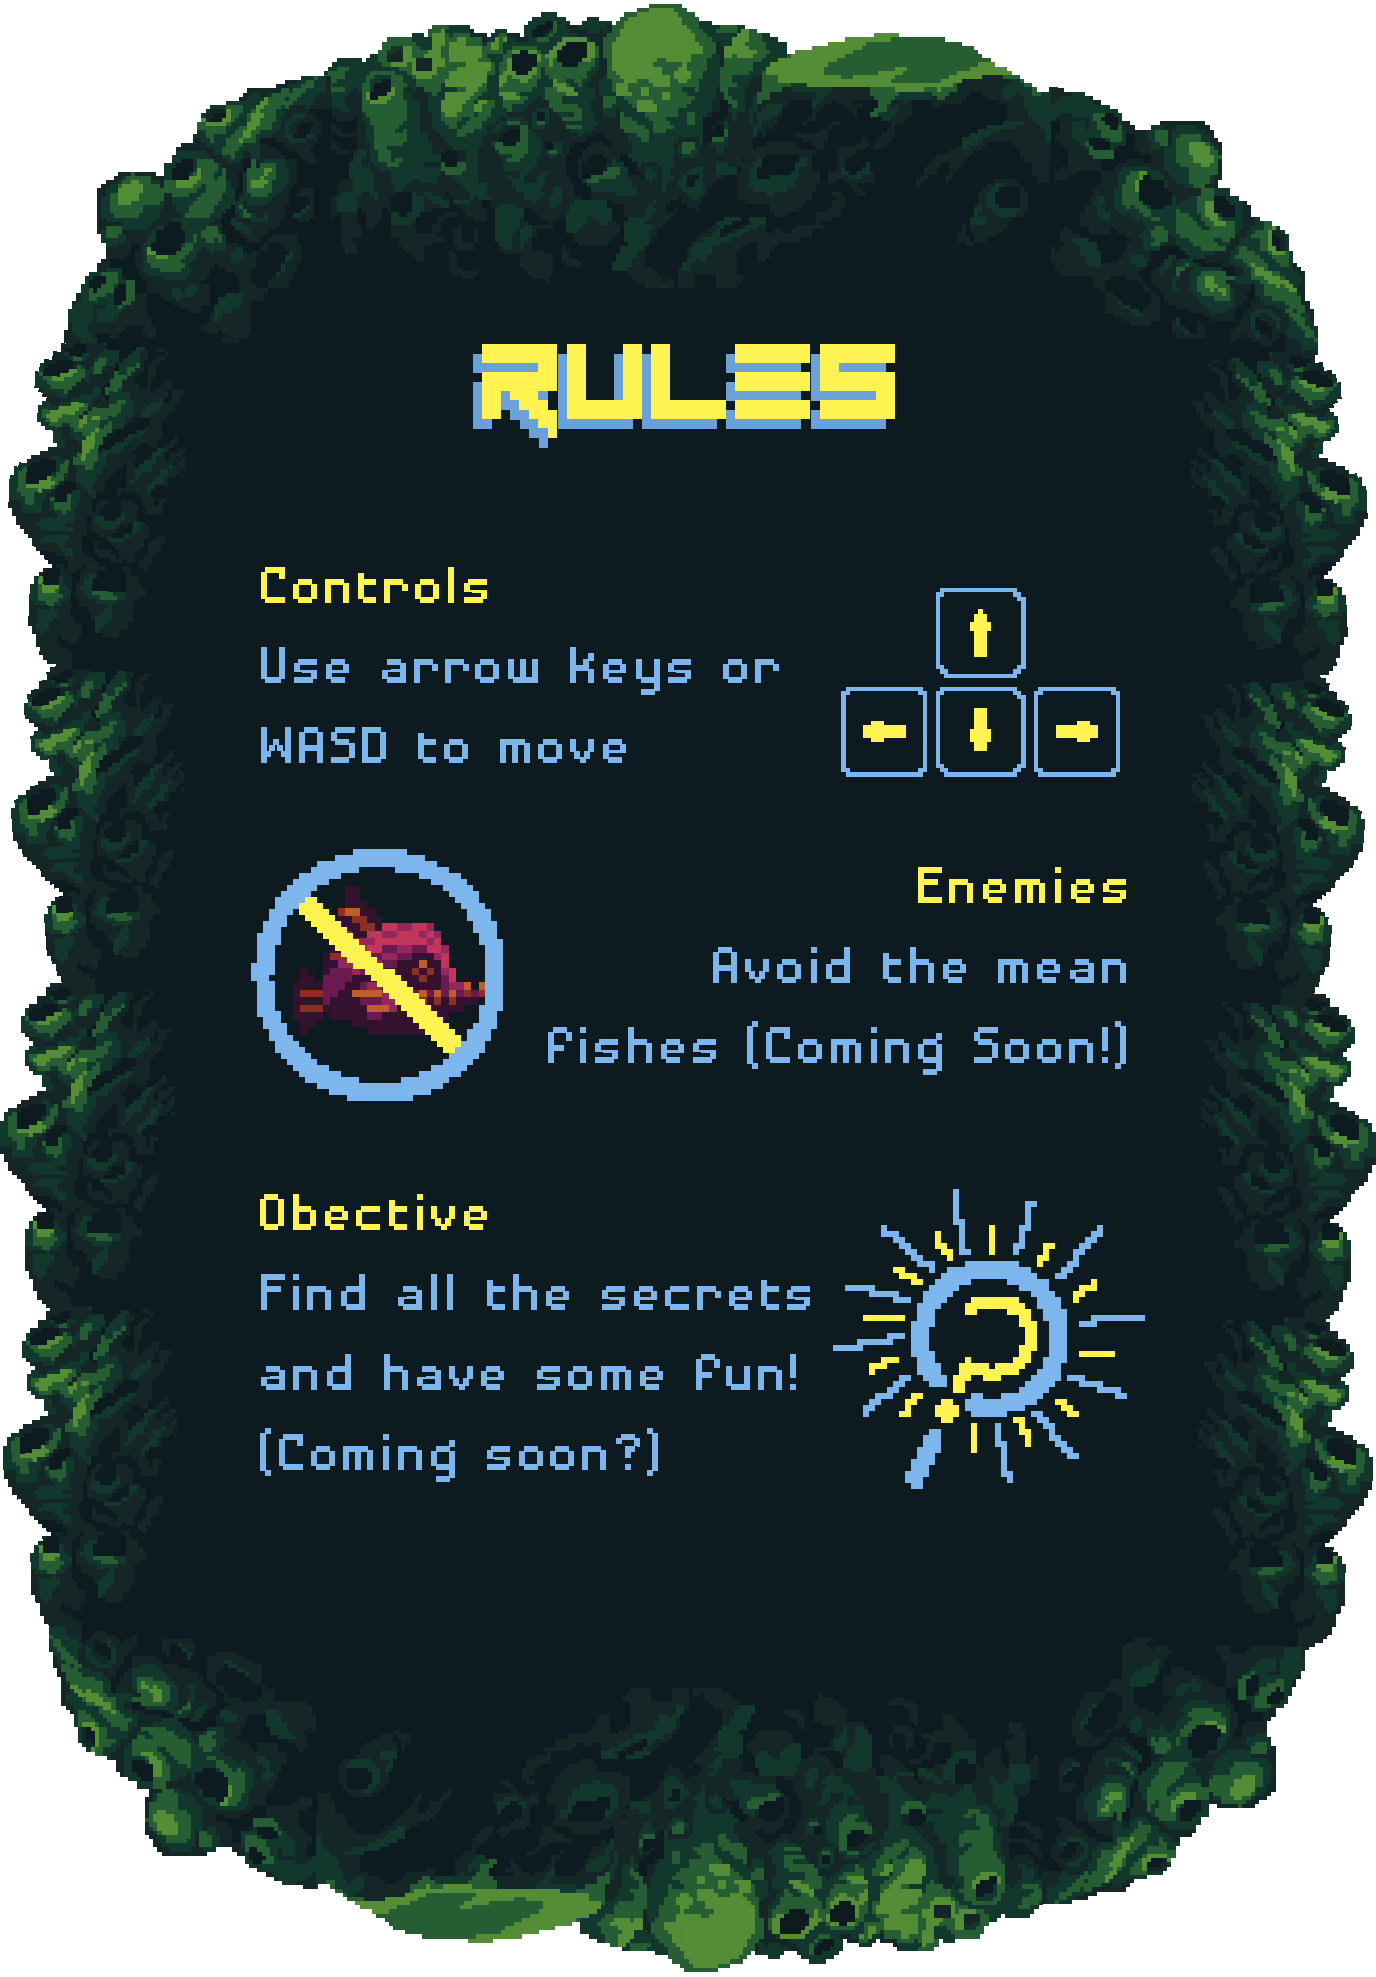
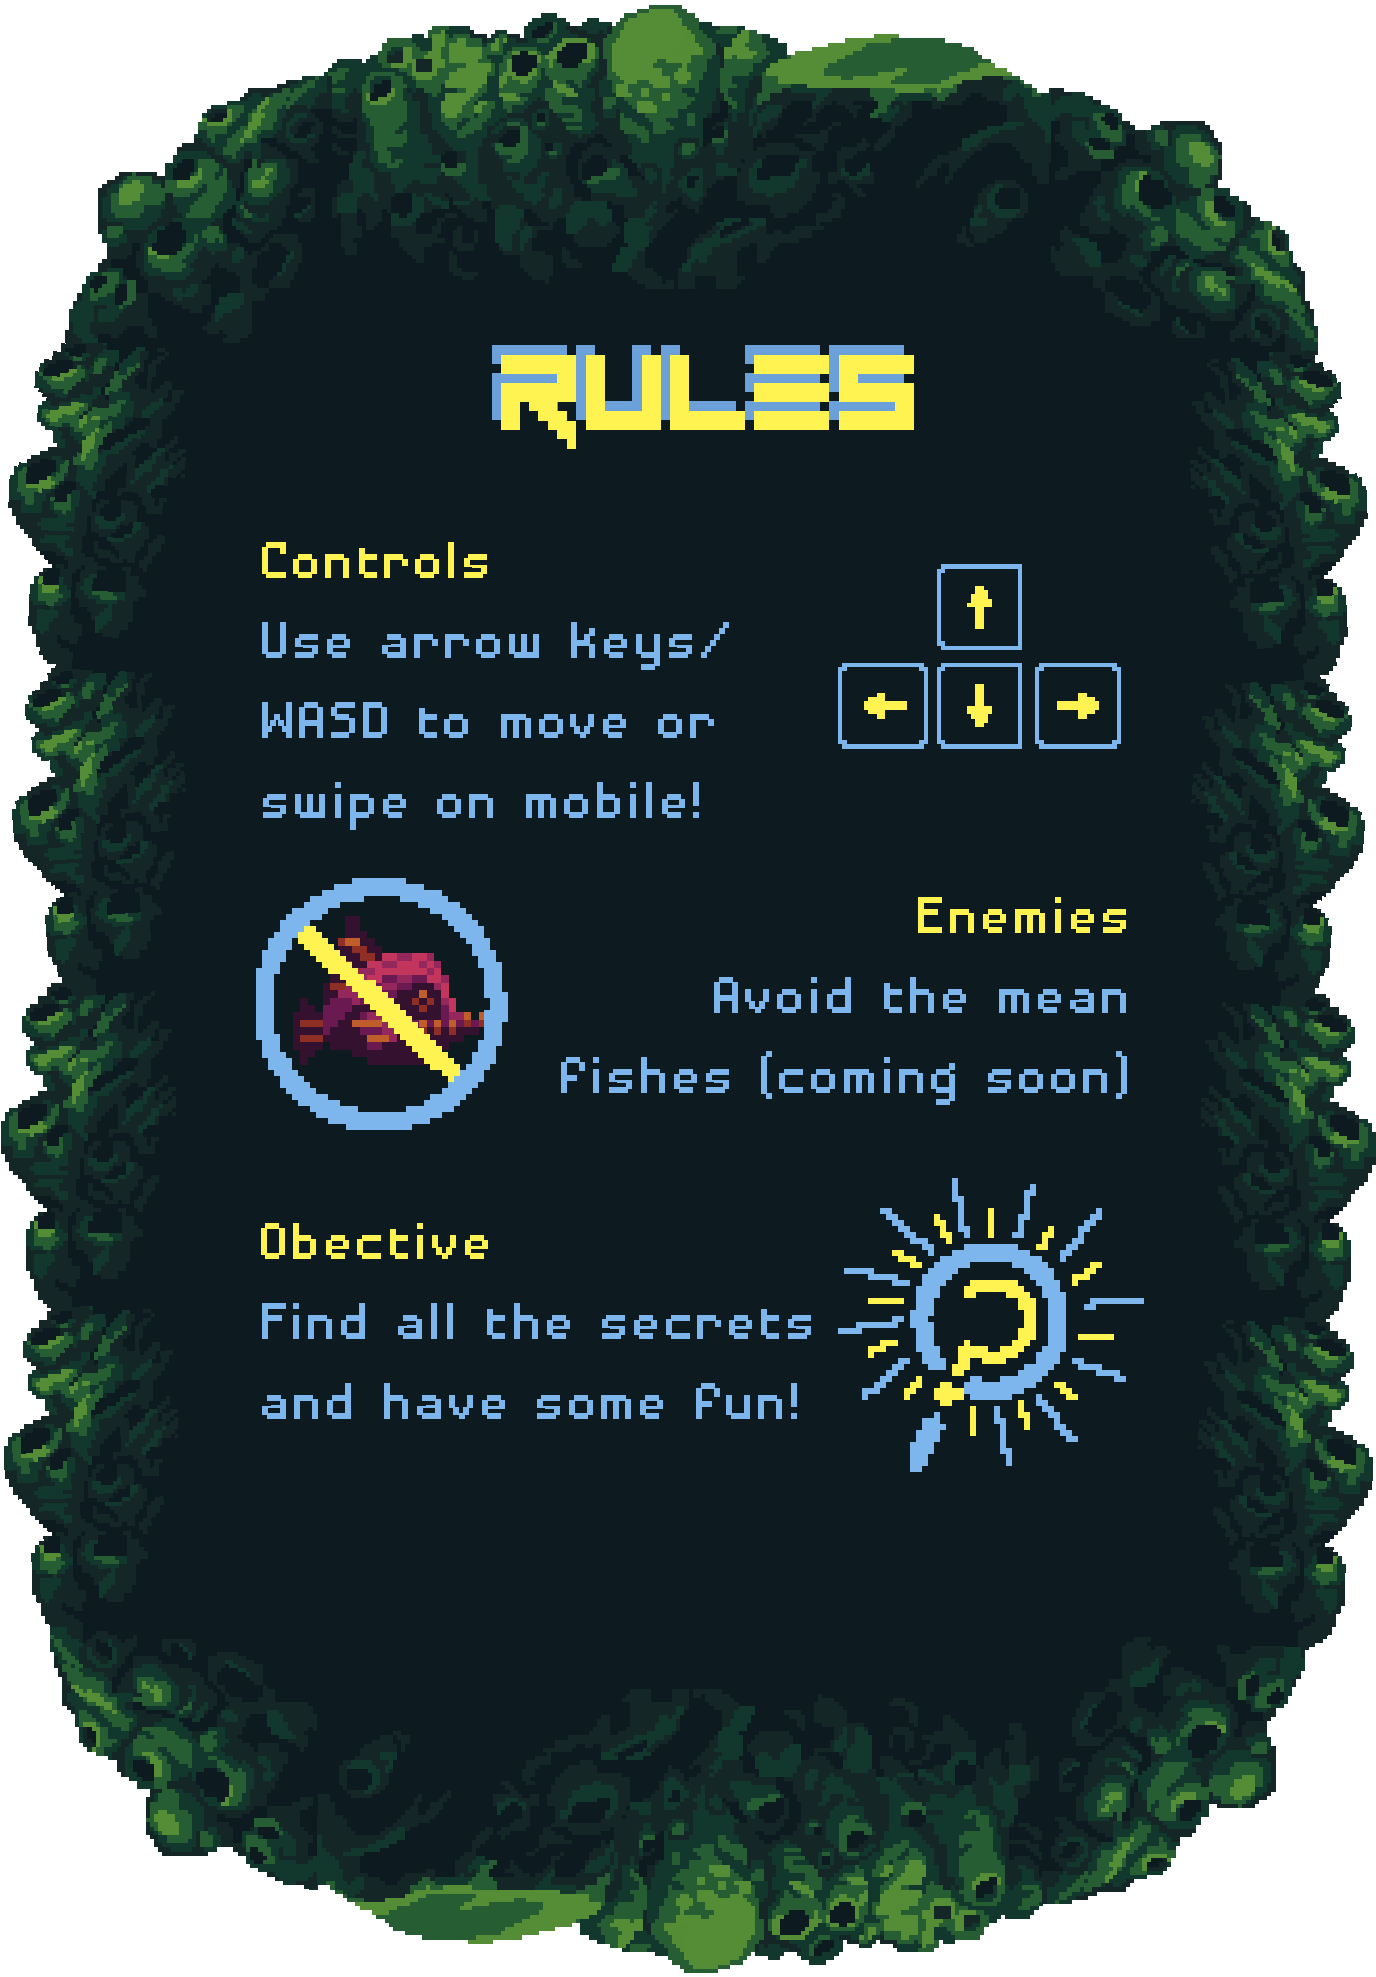
mobile swipe functionality

diff --git a/src/components/game/Game.js b/src/components/game/Game.js
@@ -9,7 +9,6 @@ export default function Game() {
       ctx = canvas.getContext('2d');
     let screenHeight = $(window).height();
     let screenWidth = $(window).width();
-    var lastDownTarget;
 
     let navigateOnce = true;
     let screenSizePadding = 4000;
@@ -90,53 +89,71 @@ export default function Game() {
     document.body.addEventListener('keyup', function (e) {
       keys[e.key] = false;
     });
-    document.body.addEventListener(
-      'mousedown',
-      function (e) {
-        var mousePos = getMousePos(canvas, e);
-        if (isInside(mousePos, rectRight)) {
-          lastDownTarget = e.target;
-          keys['ArrowRight'] = true;
-        }
-        if (isInside(mousePos, rectLeft)) {
-          lastDownTarget = e.target;
-          keys['ArrowLeft'] = true;
-        }
-        if (isInside(mousePos, rectUp)) {
-          lastDownTarget = e.target;
-          keys['ArrowUp'] = true;
-        }
-        if (isInside(mousePos, rectDown)) {
-          lastDownTarget = e.target;
-          keys['ArrowDown'] = true;
-        }
-      },
-      false
-    );
-    document.body.addEventListener(
-      'mouseup',
-      function (e) {
-        debugger;
-        var mousePos = getMousePos(canvas, e);
-        if (isInside(mousePos, rectRight)) {
-          lastDownTarget = e.target;
-          keys['ArrowRight'] = false;
-        }
-        if (isInside(mousePos, rectLeft)) {
-          lastDownTarget = e.target;
-          keys['ArrowLeft'] = false;
-        }
-        if (isInside(mousePos, rectUp)) {
-          lastDownTarget = e.target;
-          keys['ArrowUp'] = false;
-        }
-        if (isInside(mousePos, rectDown)) {
-          lastDownTarget = e.target;
-          keys['ArrowDown'] = false;
-        }
-      },
-      false
-    );
+    // document.body.addEventListener(
+    //   'touchstart',
+    //   function (e) {
+    //     var mousePos = getMousePos(canvas, e);
+    //     if (isInside(mousePos, rectRight)) {
+    //       keys['ArrowRight'] = true;
+    //     }
+    //     if (isInside(mousePos, rectLeft)) {
+    //       keys['ArrowLeft'] = true;
+    //     }
+    //     if (isInside(mousePos, rectUp)) {
+    //       keys['ArrowUp'] = true;
+    //     }
+    //     if (isInside(mousePos, rectDown)) {
+    //       keys['ArrowDown'] = true;
+    //     }
+    //   },
+    //   false
+    // );
+    // document.body.addEventListener(
+    //   'touchend',
+    //   function (e) {
+    //     var mousePos = getMousePos(canvas, e);
+    //     alert(mousePos);
+    //     if (isInside(mousePos, rectRight)) {
+    //       keys['ArrowRight'] = false;
+    //     }
+    //     if (isInside(mousePos, rectLeft)) {
+    //       keys['ArrowLeft'] = false;
+    //     }
+    //     if (isInside(mousePos, rectUp)) {
+    //       keys['ArrowUp'] = false;
+    //     }
+    //     if (isInside(mousePos, rectDown)) {
+    //       keys['ArrowDown'] = false;
+    //     }
+    //   },
+    //   false
+    // );
+    var touchStartPositionY;
+    var touchStartPositionX;
+    $(document).bind('touchstart', function (e) {
+      touchStartPositionY = e.originalEvent.touches[0].clientY;
+    });
+
+    $(document).bind('touchend', function (e) {
+      var touchEndPositionY = e.originalEvent.changedTouches[0].clientY;
+      if (touchStartPositionY > touchEndPositionY + 5) {
+        velY -= speedIncrement * 5;
+      } else if (touchStartPositionY < touchEndPositionY - 5) {
+        velY += speedIncrement * 5;
+      }
+    });
+    $(document).bind('touchstart', function (e) {
+      touchStartPositionX = e.originalEvent.touches[0].clientX;
+    });
+
+    $(document).bind('touchend', function (e) {
+      var touchEndPositionX = e.originalEvent.changedTouches[0].clientX;
+      if (touchStartPositionX > touchEndPositionX + 5) {
+        velX -= speedIncrement * 5;
+      } else if (touchStartPositionX < touchEndPositionX - 5) {
+        velX += speedIncrement * 5;
+      }
+    });
     // canvas.addEventListener(
     //   'click',
     //   function (e) {
